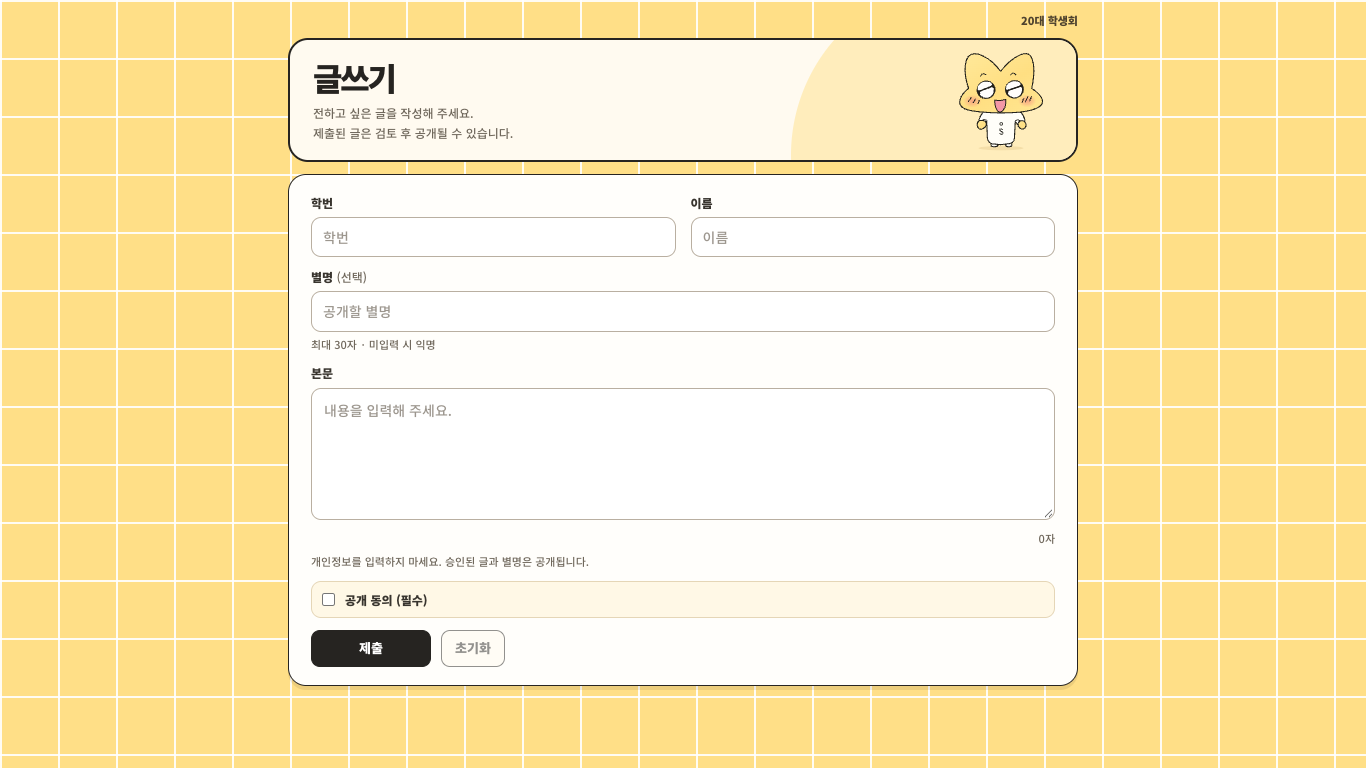
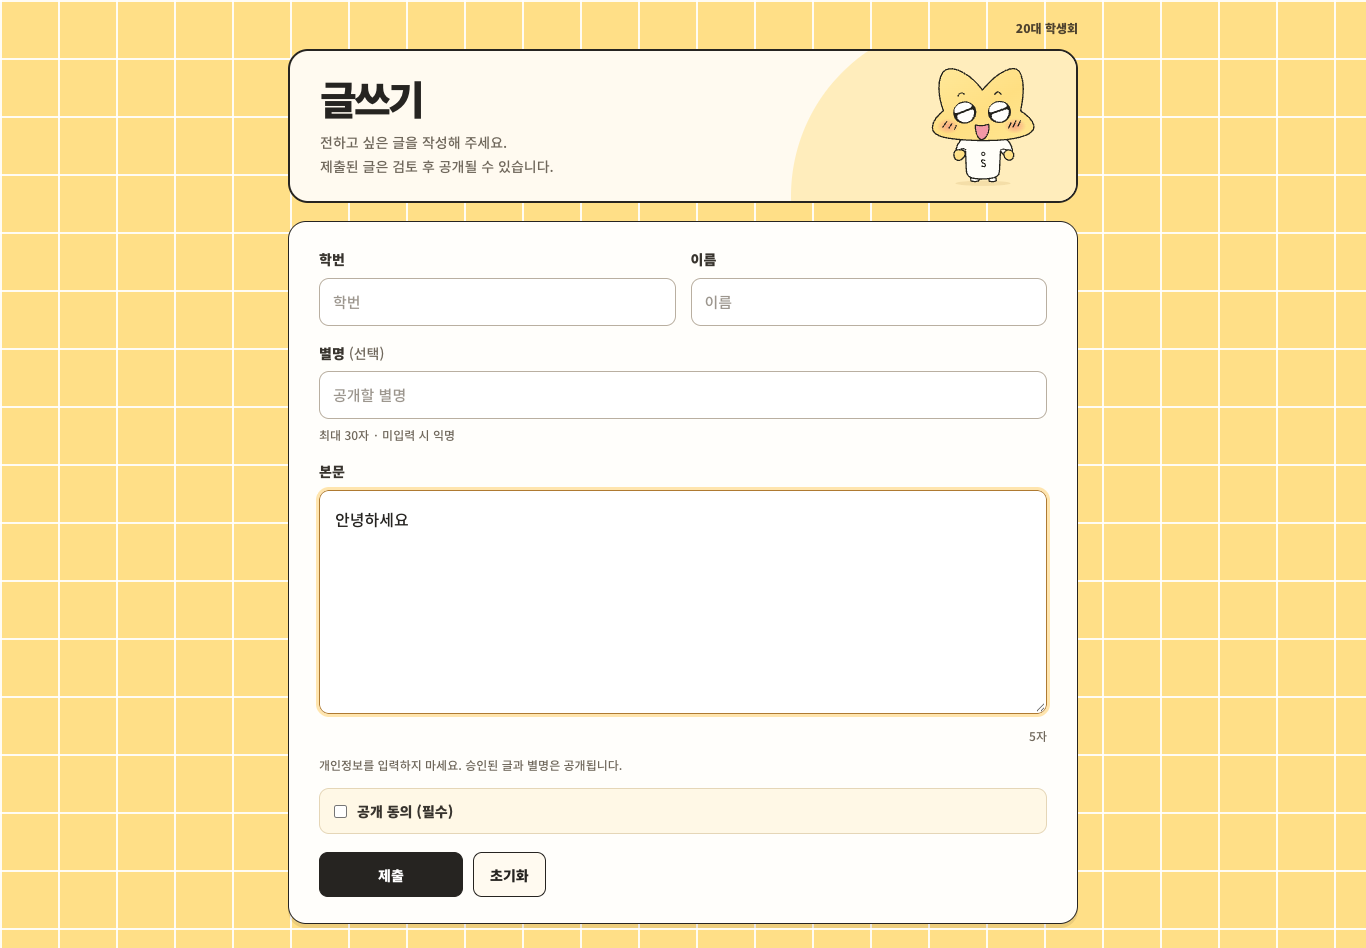
Restore comfortable writing form and document server deletion rollout

diff --git a/write/style.css b/write/style.css
@@ -1,22 +1,21 @@
-/* Preserve the writing cards while removing duplicate space around the form. */
-.write-page .container { padding: 12px 0 16px; }
-.write-page .inside-nav { margin-bottom: 8px; }
-.write-page .inside-brand { font-size: 11px; }
-.write-page .page-intro { min-height: 112px; margin-bottom: 12px; padding: 13px 23px; }
-.write-page .page-intro h1 { font-size: 32px; }
-.write-page .page-intro-copy > p:last-of-type { font-size: 12px; line-height: 1.6; margin-top: 6px; }
-.write-page .page-mascot { flex-basis: 108px; height: 94px; }
-.write-page .page-mascot img { width: 98px; bottom: -5px; right: 3px; }
-.write-page .form-panel { margin: 0; padding: 18px 22px; }
-.write-page label { margin: 10px 0 5px; font-size: 12px; }
+/* Remove duplicate sections, while keeping the writing form comfortable. */
+.write-page .container { padding: 18px 0 24px; }
+.write-page .inside-nav { margin-bottom: 12px; }
+.write-page .page-intro { min-height: 146px; margin-bottom: 18px; padding: 20px 30px; }
+.write-page .page-intro h1 { font-size: 40px; }
+.write-page .page-intro-copy > p:last-of-type { font-size: 14px; line-height: 1.7; margin-top: 8px; }
+.write-page .page-mascot { flex-basis: 140px; height: 110px; }
+.write-page .page-mascot img { width: 120px; bottom: -7px; right: 3px; }
+.write-page .form-panel { margin: 0; padding: 26px 30px; }
+.write-page label { margin: 16px 0 7px; font-size: 14px; }
 .write-page .form-grid label { margin-top: 0; }
-.write-page input { min-height: 40px; padding: 8px 11px; }
-.write-page .form-panel textarea { min-height: 132px; height: 132px; padding: 10px 12px; font-size: 14px; line-height: 1.7; }
+.write-page input { min-height: 48px; padding: 11px 13px; font-size: 15px; }
+.write-page .form-panel textarea { min-height: 224px; height: 224px; padding: 14px 15px; font-size: 16px; line-height: 1.8; }
 .write-page .form-panel #nickname-help,
-.write-page .form-panel #content-count { font-size: 11px; margin-top: 4px; margin-bottom: 0; }
-.write-page .form-panel #privacy { font-size: 11px; margin: 6px 0 10px; }
-.write-page .consent-check { min-height: 37px; padding: 7px 10px; margin: 0; }
+.write-page .form-panel #content-count { font-size: 12px; margin-top: 6px; margin-bottom: 0; }
+.write-page .form-panel #privacy { font-size: 12px; margin: 10px 0 14px; }
+.write-page .consent-check { min-height: 46px; padding: 11px 14px; margin: 0; }
 .write-page .consent-check input { min-height: 0; }
-.write-page .actions { margin: 12px 0 0; }
-.write-page button { min-height: 37px; padding: 7px 13px; }
-.write-page .form-panel button.primary { min-width: 120px; }
+.write-page .actions { margin: 18px 0 0; }
+.write-page button { min-height: 45px; padding: 10px 16px; font-size: 14px; }
+.write-page .form-panel button.primary { min-width: 144px; }

diff --git a/write/index.html b/write/index.html
@@ -6,7 +6,7 @@
   <meta name="theme-color" content="#ffdf87" />
   <title>글쓰기 | 20대 학생회</title>
   <link rel="stylesheet" href="../style.css?v=obyeol-ui-v6" />
-  <link rel="stylesheet" href="./style.css?v=write-compact-1" />
+  <link rel="stylesheet" href="./style.css?v=write-comfortable-2" />
   <script type="module" src="./app.js?v=typing-fix-20261113"></script>
 </head>
 <body class="inside-page write-page">
@@ -26,7 +26,7 @@
         <input id="nickname" name="nickname" autocomplete="off" placeholder="공개할 별명" aria-describedby="nickname-help" />
         <p id="nickname-help" class="muted">최대 30자 · 미입력 시 익명</p>
         <label for="content">본문</label>
-        <textarea id="content" name="content" rows="5" placeholder="내용을 입력해 주세요." required aria-describedby="content-count privacy"></textarea>
+        <textarea id="content" name="content" rows="8" placeholder="내용을 입력해 주세요." required aria-describedby="content-count privacy"></textarea>
         <p id="content-count" class="muted">0자</p>
         <p id="privacy" class="muted">개인정보를 입력하지 마세요. 승인된 글과 별명은 공개됩니다.</p>
         <label class="checkbox consent-check"><input id="consent" name="consent" type="checkbox" required /> 공개 동의 (필수)</label>

diff --git a/docs/v6/compact-layout-and-deletion.md b/docs/v6/compact-layout-and-deletion.md
@@ -10,7 +10,7 @@
 
 사용자가 원하지 않은 원인 분석 버튼과 진단 함수·진단 테스트는 제거했다. 입력 엔진과 오타당 3점 감점은 변경하지 않았다.
 
-**운영 반영 상태:** 로컬 구현과 테스트는 완료했다. Firebase CLI의 `login:list`가 `No authorized accounts`를 반환하여 운영 프로젝트 `os20th`에는 새 규칙을 아직 배포하지 않았다. 기존 운영 데이터와 남아 있는 참여 키도 이번 작업 중 변경하지 않았다. 실제 삭제·재참여 동작은 규칙과 새 클라이언트를 함께 반영해야 한다.
+**운영 반영 상태:** Firebase CLI 인증을 완료하고 `os20th`의 기본 STANDARD 데이터베이스에 새 Firestore 규칙을 배포했다. 서버 컴파일과 규칙 릴리스 성공을 확인했다. 저장 대기 중인 특정 참가자에 대해서는 이전 결과가 없는데 그 결과를 가리키는 참여 키와 타자 영수증이 남아 있음을 확인했다. 해당 키의 학번·결과 ID·수정 시각과 결과 부재를 트랜잭션 안에서 재확인한 뒤, 그 키와 영수증만 원자적으로 정리했다. 세 문서의 부재를 다시 조회해 확인했으며, 존재하는 타자 결과는 삭제하지 않았다. 정리 전 문서는 저장소 밖의 비공개 로컬 파일에 백업했다. 브라우저 관리자 세션이 해제되어 실제 관리자 UI 삭제와 보관 기록의 서버 재전송은 이번 단계에서 확인하지 못했다.
 
 ```sh
 npx -y firebase-tools@latest deploy --config db/firebase.json --project os20th --only firestore:rules
@@ -23,7 +23,7 @@ npx -y firebase-tools@latest deploy --config db/firebase.json --project os20th -
 - 채점 규칙 영역과 그 표시용 DOM 연결을 제거했다. 시작 전 운영진이 구두로 고지하는 방식에 맞췄다. 실제 채점·입력 제한은 그대로다.
 - 지표·보조 버튼·입력창·여백을 조금씩 줄여 큰 오별이와 문구 전체가 함께 보인다.
 - 한글 조합 중인 임시 글자도 현재 입력과 다르면 바로 빨간색으로 표시하도록 되돌리고, 오답 글자색과 밑줄을 더 선명하게 했다. 조합 중 임시 글자를 감점하지 않고 확정된 오타만 세는 채점 로직은 유지했다.
-- 글쓰기의 카드 디자인은 유지하고 중복된 소제목, 큰 상단·본문 여백, 푸터를 정리했다. 본문 입력창은 늘려 쓸 수 있으며 길이 제한은 변경하지 않았다. 학번 placeholder는 “학번”으로 바꿨다.
+- 글쓰기의 카드 디자인을 유지하고 중복된 소제목과 푸터를 정리했다. 너무 작아졌다는 후속 요청에 따라 본문 입력창을 132px에서 224px, 입력란을 40px에서 48px, 본문 글자를 14px에서 16px로 복원·확대했다. 상단 제목과 캐릭터도 다시 키웠다. 화면 높이에 억지로 맞추지 않고 필요한 스크롤을 허용한다. 본문 길이 제한과 제출 로직은 변경하지 않았고, 학번 placeholder는 “학번”이다.
 - 수정된 JS·CSS·SVG의 URL 버전을 갱신해 오래된 삭제 함수나 캐릭터가 캐시에 남는 것을 줄였다.
 
 ## 검증
@@ -32,11 +32,11 @@ npx -y firebase-tools@latest deploy --config db/firebase.json --project os20th -
 
 - Chrome 데스크톱 1366×768, 1710×1060에서 중앙 로그인과 입력 반응·기록증·실패 후 보관을 검사했다.
 - 1366×768 실제 운영 문구 조회 화면에서 오별이 144px, 문구 전체 표시, 입력창 하단 약 662px, 카드 하단 약 686px, 채점 규칙 제거를 확인했다.
-- 1366×768 글쓰기 폼 하단은 약 686px였고, 문서 높이와 뷰포트 높이가 768px로 같아 초기 화면의 불필요한 세로 스크롤이 없다. 본문 입력 시 글자 수 갱신도 확인했다. 실제 글은 제출하지 않았다.
+- 글쓰기는 1366×768에서 문서 높이 약 948px로 약간의 세로 스크롤을 허용한다. 1710×1060에서는 제출 버튼까지 한 화면에 표시된다. 두 크기의 실제 Chrome 렌더링을 검사했고, 가로 넘침 없음·본문 글자 수 갱신·224px 본문 입력창을 확인했다. 실제 글은 제출하지 않았다.
 - 한글 조합 중 임시 오답은 빨간색으로 보이지만 오타 수는 0이며, 정확히 조합 확정하면 정상 입력으로 처리되는 것을 확인했다.
 - `tests/typing-delete.mjs`: 삭제·재참여·다른 참여 키 보호·실패 원자성·재삭제·과거 방식 영수증·고아 키 정리 등 10개 사례 통과.
 - `tests/typing-delete-rules.mjs`: 실제 Firestore 에뮬레이터에서 9개 규칙 사례 통과. 관리자 전체 삭제 성공, 부분 삭제 3종 거절, 비관리자 거절, 다른 키 유지, 고아 키 조건부 정리, 과거 방식 영수증 정리, 글 영수증 보호, 삭제 후 같은 학번 재접수를 확인했다.
-- 운영 서버에 테스트 기록을 만들거나 기존 기록을 삭제하지 않았다.
+- 운영 서버에 테스트 타자 결과나 글을 만들지 않았다. 기존 결과가 없는 특정 참여 키·영수증의 조건부 정리만 실제 서버에서 수행했다.
 
 에뮬레이터 테스트는 Java 21, Firebase CLI, `firebase@13.1.0`, `@firebase/rules-unit-testing@6.0.0`가 필요하다. 테스트 프로젝트는 로컬 전용 `demo-oshs-delete-rules`다.
 
@@ -50,4 +50,4 @@ npx -y firebase-tools@latest emulators:exec --project demo-oshs-delete-rules --c
 
 ![말풍선·푸터 없는 로그인](login-desktop.png)
 
-![불필요한 스크롤을 줄인 글쓰기](write-desktop.png)
+![입력창 크기를 복원한 글쓰기](write-desktop.png)
